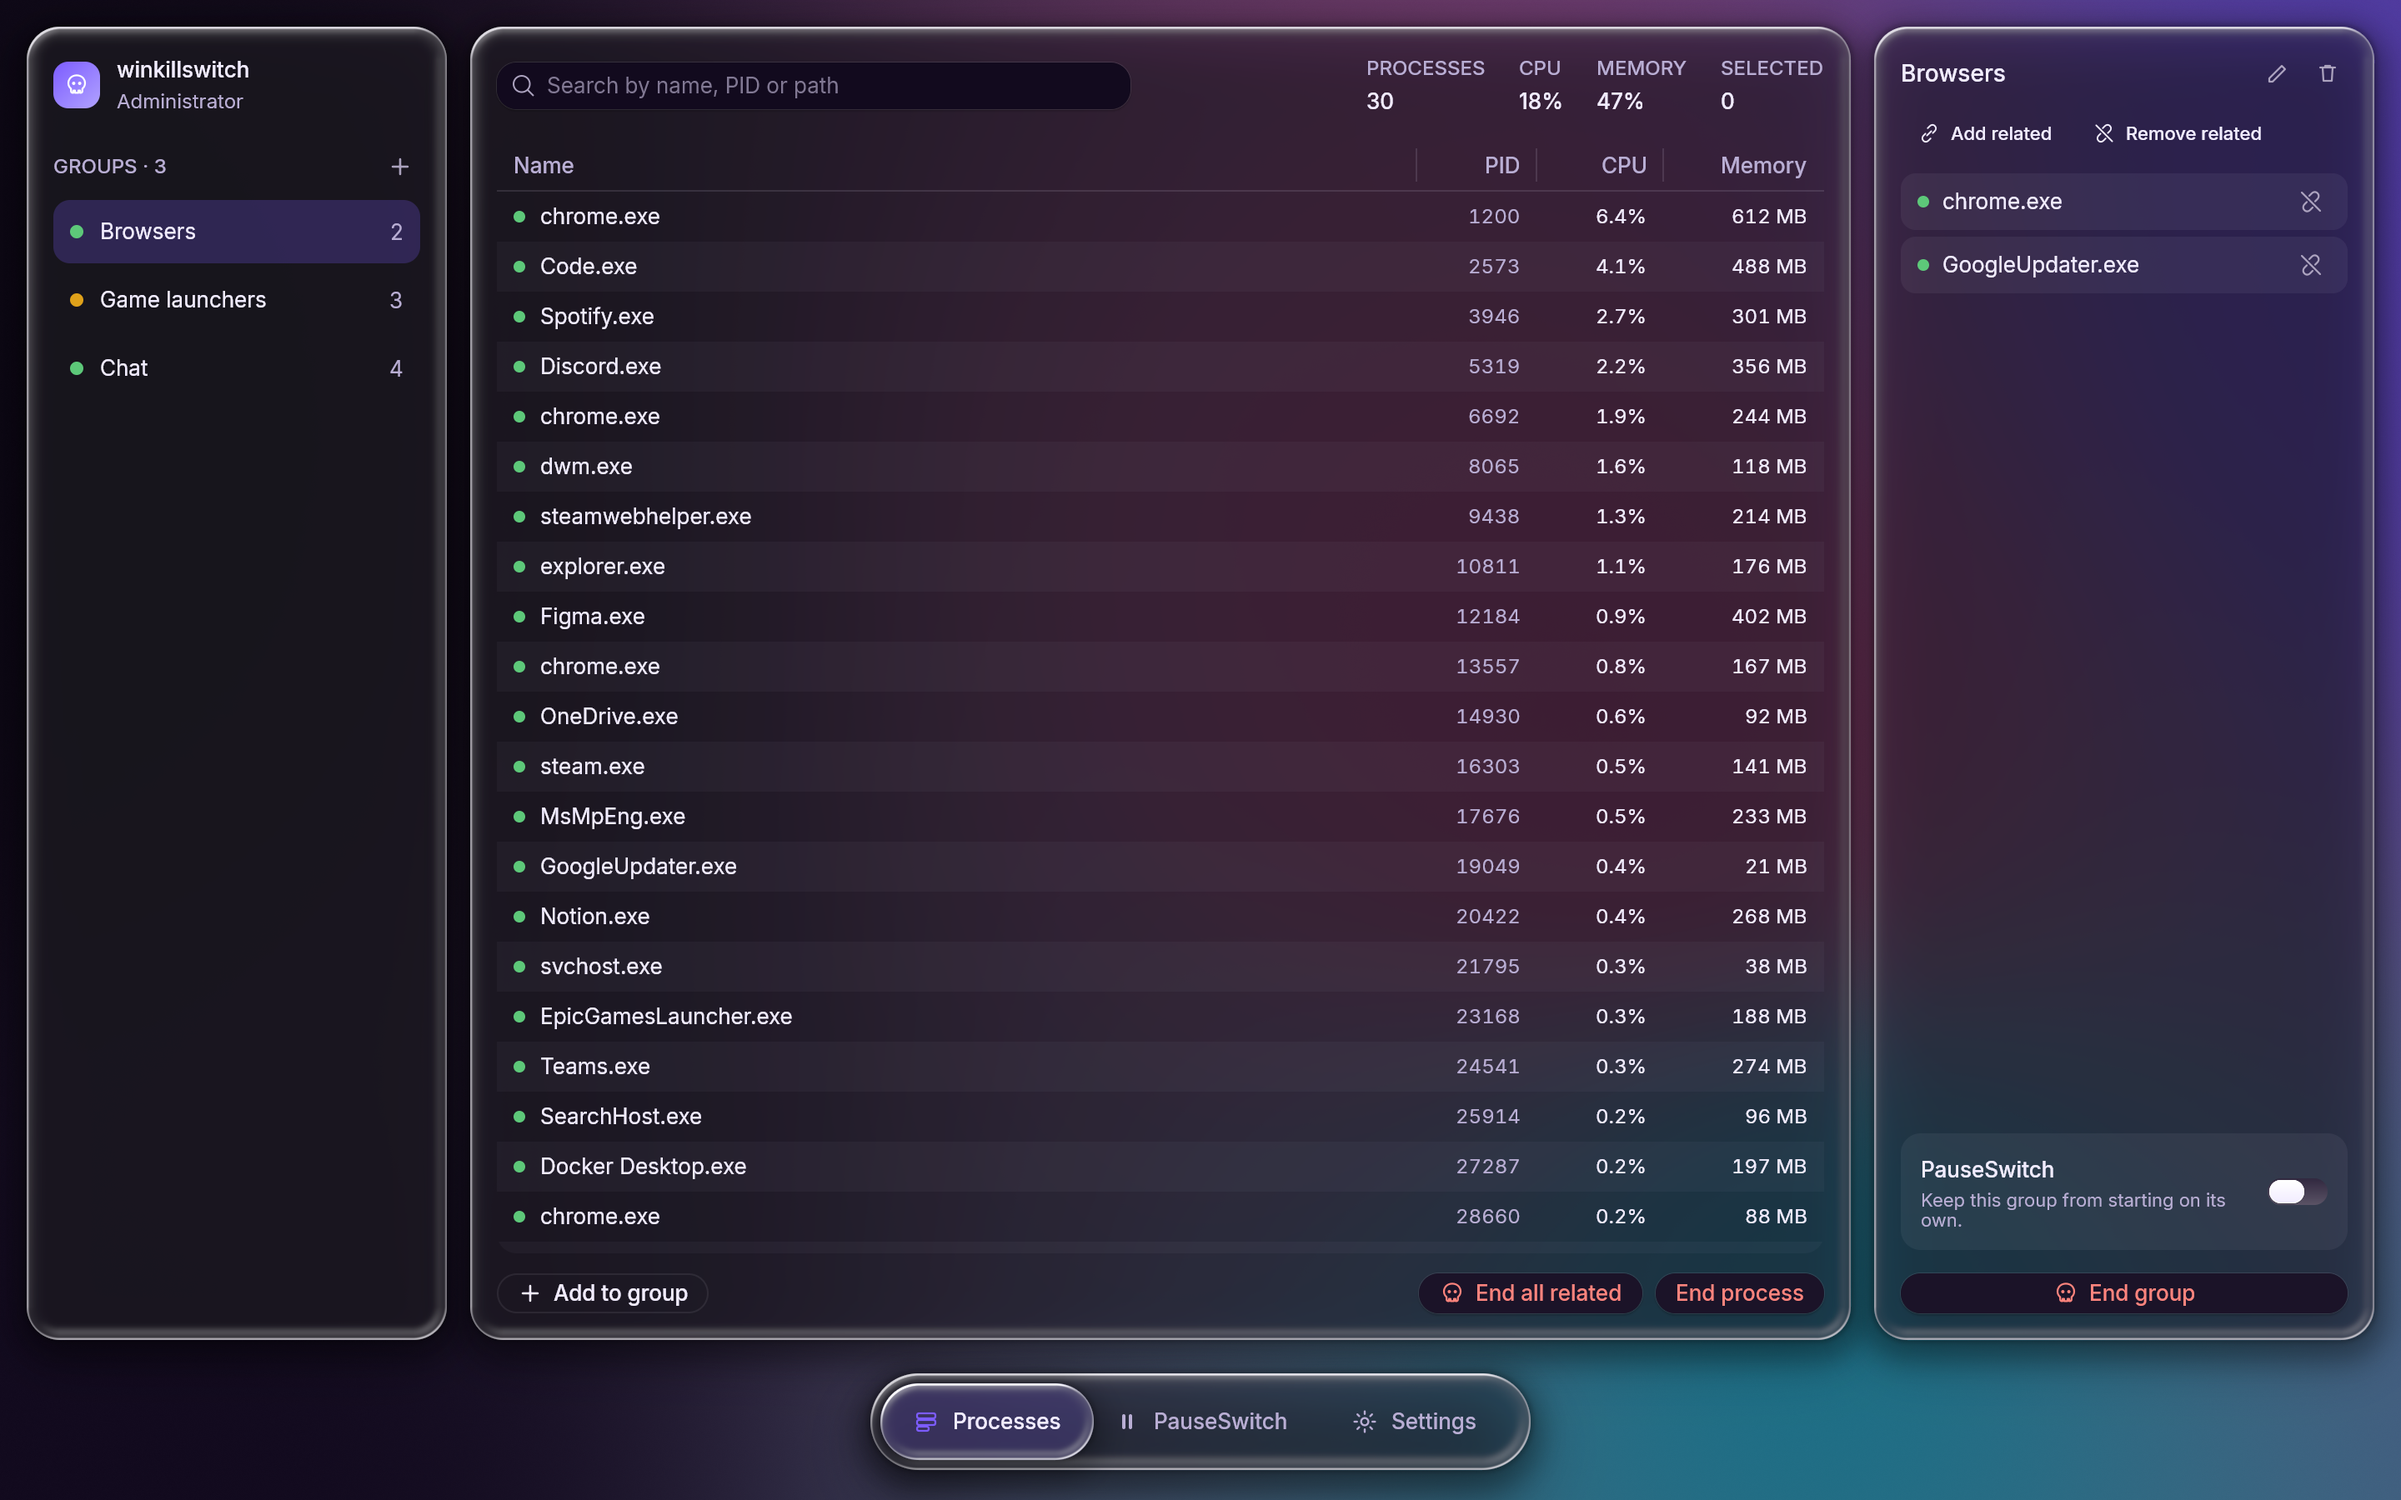
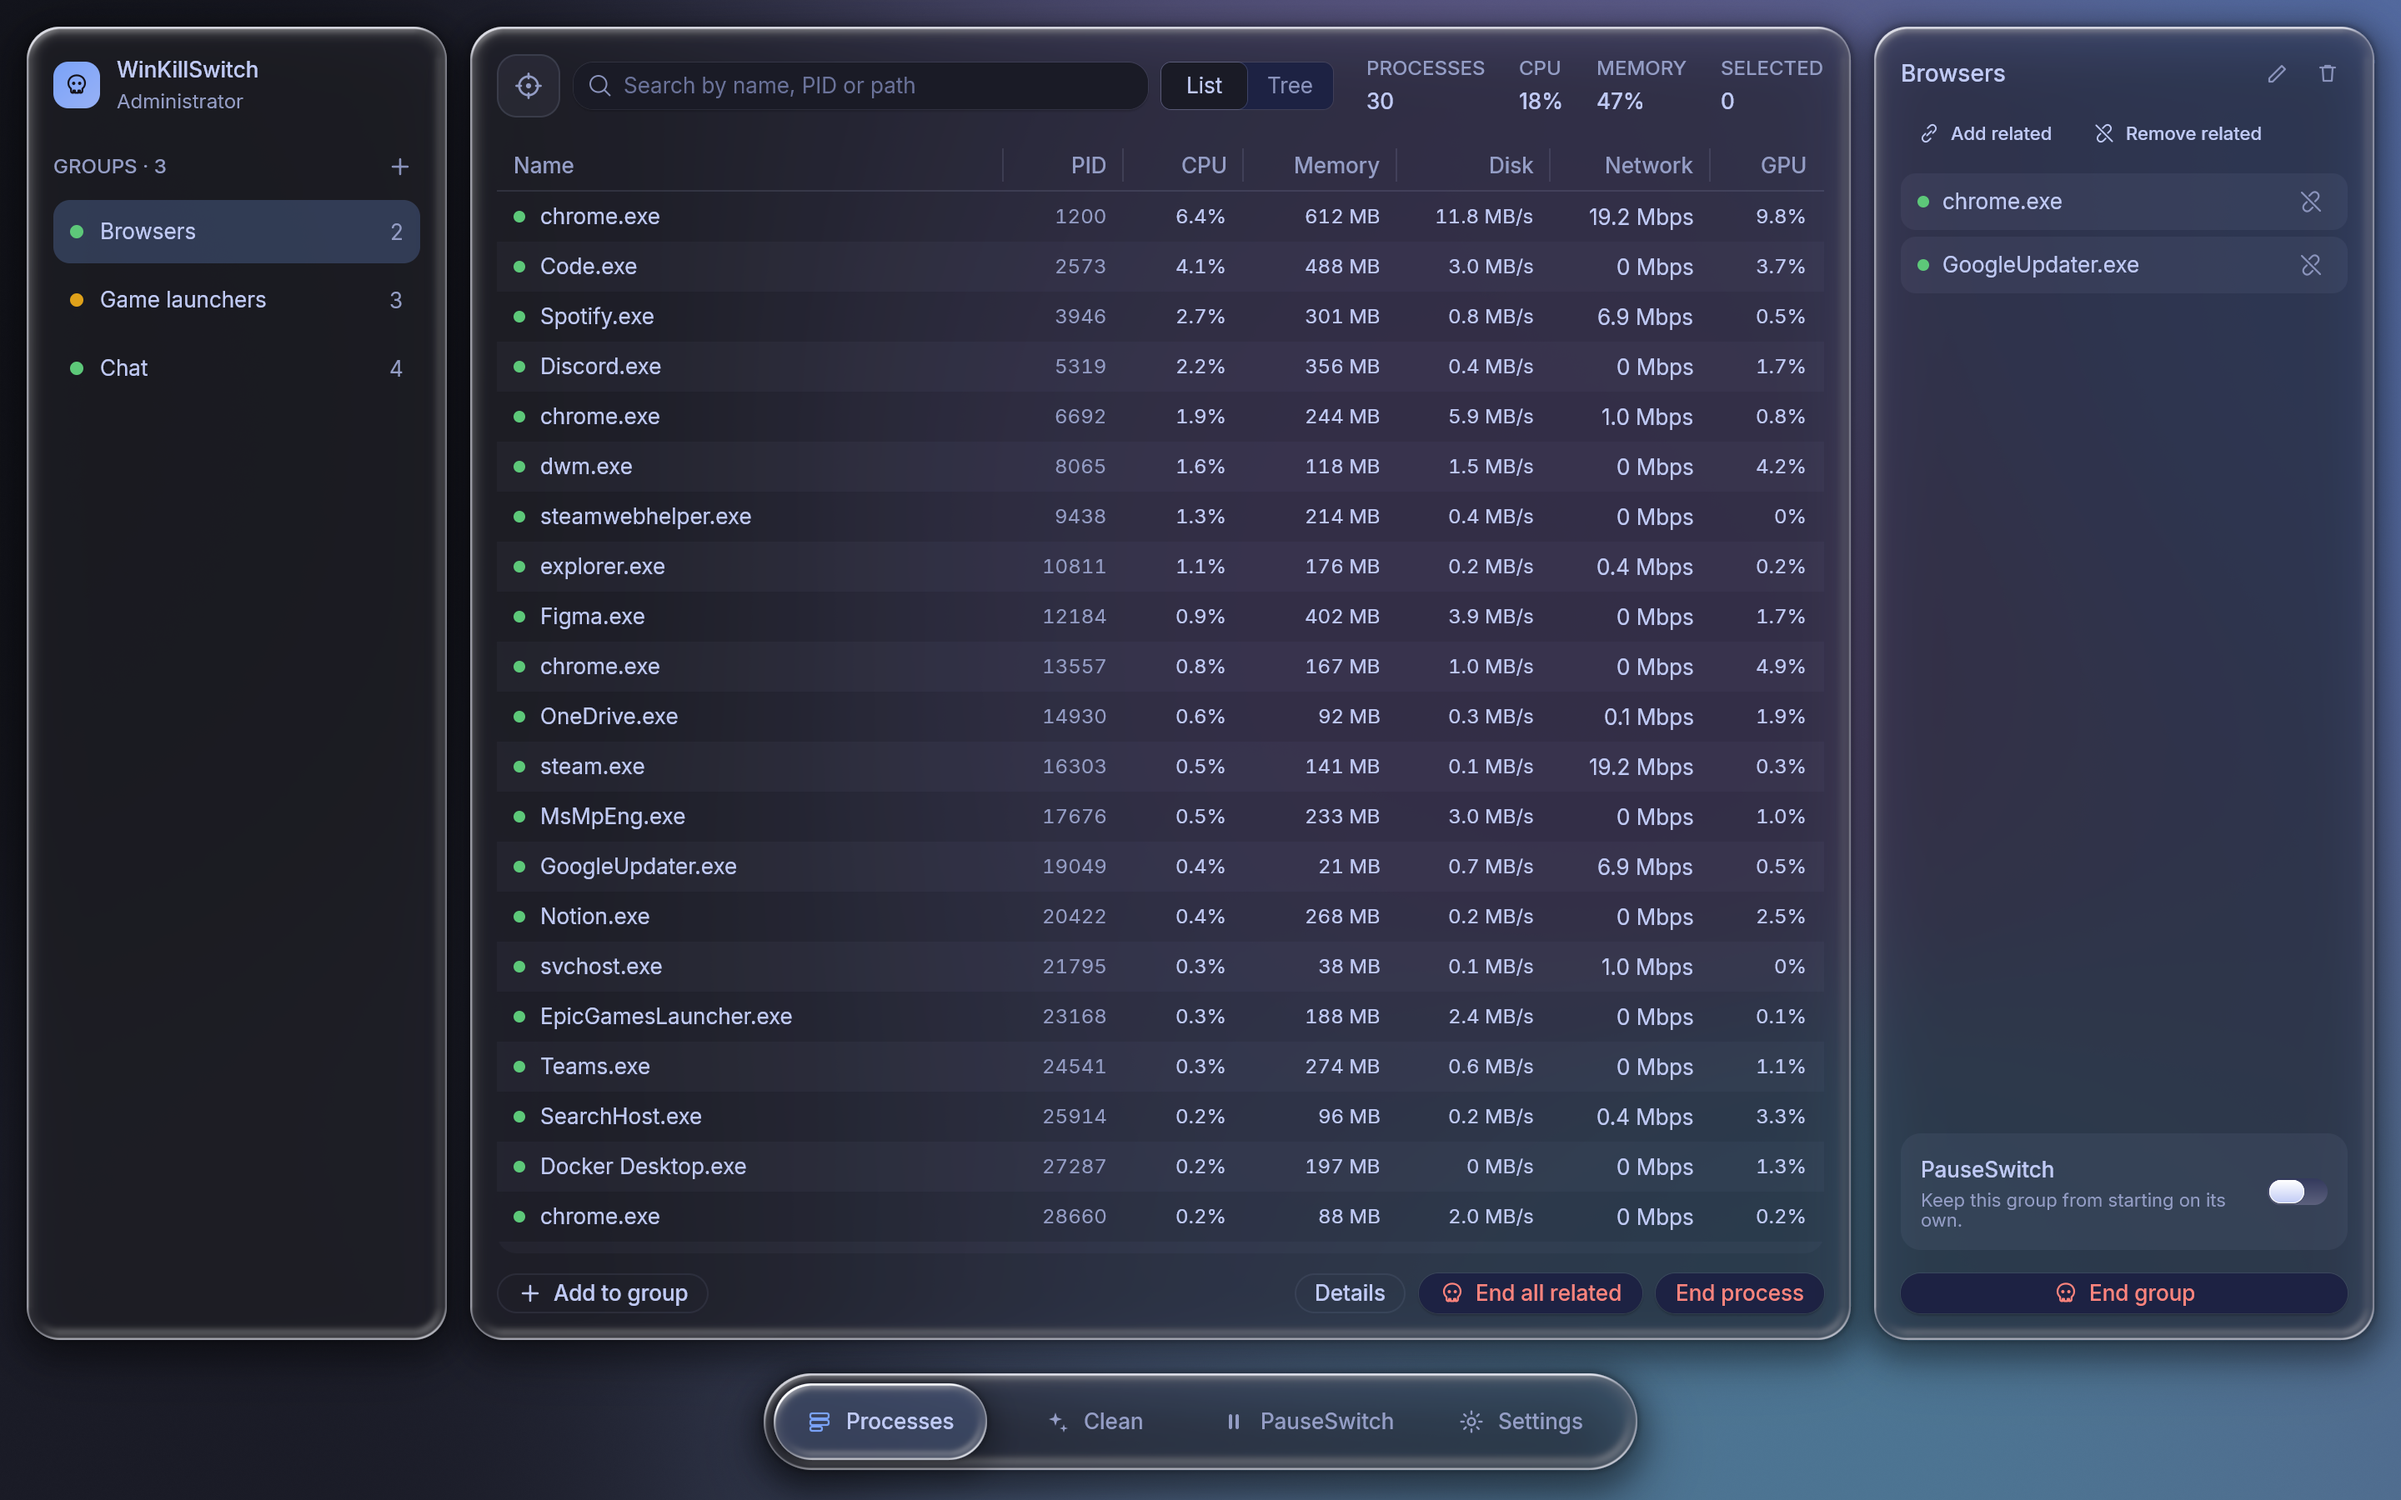
WinKillSwitch v0.4.0: the complete, tested set
- Narrow windows: the process table drops its least useful columns (GPU
  engine first, name never) until the rest fit the frame, and brings
  them back as the window widens; the toolbar wraps its stats onto their
  own line instead of overlapping the List/Tree switch.
- README: refreshed table screenshots with the Network column, status
  and limitations brought up to date (cleaners and limits are the only
  system changes, both started by you), roadmap intro for v0.4.0,
  project structure lists the new modules and packs/.
- Verified for this release: 49 unit tests and 7 live machine tests (RAM
  clean, disk scan, GPU, network over ETW, CPU and memory limits, startup
  survey) pass; dark, light and 820x560 sweeps of every tab; end to end
  runs for diagnosis, alerts, file locks, packs import/export.

diff --git a/preview.html b/preview.html
@@ -127,7 +127,7 @@ WinKillSwitch is a desktop process manager for Windows. It shows what is running
 The interface is drawn entirely on the GPU by [Rune](https://github.com/anomalyco/rune). Panels are real glass over a live gradient, every change animates on springs, and the whole look follows the palette you pick.
 
 > [!NOTE]
-> WinKillSwitch is in **alpha**. The interface, process monitoring, groups, theming and the memory and disk cleaners work today. Ending processes and the PauseSwitch system changes are designed and wired into the UI but not implemented yet. See [Known limitations](#known-limitations).
+> WinKillSwitch is in **alpha**. Process monitoring (with GPU and network), groups, theming, the memory and disk cleaners, the slow PC check, file lock finder, startup inventory, alerts, limits and rule packs work today. Ending processes and the PauseSwitch system changes are designed and wired into the UI but not implemented yet. See [Known limitations](#known-limitations).
 
 ## Features
 
@@ -314,7 +314,7 @@ The first build compiles Rune and its GPU stack from source and takes a few minu
 
 ## Known limitations
 
-- **Process actions are stubs.** Ending a process, ending everything related to an app, the respawn guard and PauseSwitch's autostart changes are defined behind interfaces in [`src/sys`](src/sys) and wired into the UI, but in this alpha they do nothing and say so. Nothing on your system is modified.
+- **Process actions are stubs.** Ending a process, ending everything related to an app, the respawn guard and PauseSwitch's autostart changes are defined behind interfaces in [`src/sys`](src/sys) and wired into the UI, but in this build they do nothing and say so. The only things that change your system are the ones you start yourself: cleaning memory or disk, and limits.
 - **Windows only.** Rune itself runs on macOS and Linux, but the system layer is written for Windows.
 - **Pre-release UI framework.** Rune has no tagged releases; this project pins an exact commit.
 - **Not signed.** No code signing and no installer yet.
@@ -322,7 +322,7 @@ The first build compiles Rune and its GPU stack from source and takes a few minu
 
 ## Roadmap
 
-Planned releases: **v0.2** adds the memory cleaner, **v0.3** the disk cleaner, **v0.3.x** ships the rest of this list one feature at a time, and **v0.4** is the complete, tested set.
+**v0.4.0** is the complete, tested set of everything ticked below: v0.2 added the memory cleaner, v0.3 the disk cleaner, and each v0.3.x one feature at a time. What is left:
 
 - [x] Responsive under load: sampling and cleaning run off the UI thread, and the UI runs at above normal priority
 - [x] Memory cleaner: a live memory gauge and one Clean button that shows exactly what it freed (v0.2)
@@ -355,9 +355,11 @@ src/
   model.rs       shared types and saved settings
   store.rs       JSON persistence with atomic writes
   demo.rs        the fixed demo machine used for screenshots
-  sys/           Windows access: sampling, elevation, version info, process actions
+  sys/           Windows access: sampling, GPU and network meters, cleaners, limits,
+                 file locks, startup inventory, alerts, rule packs, diagnosis
   ui/            the Rune view: glass, palettes, compositor, tabs and settings
-docs/            README assets and the title generator
+packs/           the built in rule packs, plain JSON
+docs/            README assets, the title generator and end to end scripts
 research/        feature research report
 ```
 

diff --git a/src/ui/columns.rs b/src/ui/columns.rs
@@ -43,6 +43,21 @@ pub const ALL: [Col; 13] = [
 
 pub const DEFAULT: [&str; 7] = ["name", "pid", "cpu", "mem", "disk", "net", "gpu"];
 
+/// Which columns go first when the table is too narrow for all of them.
+const DROP_ORDER: [&str; 11] = ["engine", "desc", "cmd", "publisher", "status", "type", "gpu", "net", "disk", "pid", "mem"];
+
+/// Keep the columns that fit `width`, dropping by `DROP_ORDER`. Name always stays.
+pub fn fit(mut cols: Vec<&'static Col>, width: f32) -> Vec<&'static Col> {
+    let need = |cs: &[&Col]| cs.iter().map(|c| c.width.unwrap_or(c.min)).sum::<f32>() + 24.0;
+    for id in DROP_ORDER {
+        if need(&cols) <= width {
+            break;
+        }
+        cols.retain(|c| c.id != id);
+    }
+    cols
+}
+
 pub fn align(c: &Col) -> Align {
     if c.end { Align::End } else { Align::Start }
 }
@@ -77,6 +92,20 @@ pub fn text(p: &ProcInfo, id: &str) -> String {
         "gpu" => if p.gpu < 0.05 { "0%".into() } else { fmt::pct(p.gpu) },
         "engine" => if p.gpu < 0.05 { String::new() } else { p.gpu_engine.clone() },
         _ => p.name.clone(),
+    }
+}
+
+#[cfg(test)]
+mod tests {
+    use super::*;
+
+    #[test]
+    fn narrow_tables_drop_the_least_useful_columns() {
+        let all: Vec<&Col> = ALL.iter().filter(|c| DEFAULT.contains(&c.id)).collect();
+        assert_eq!(fit(all.clone(), f32::MAX).len(), DEFAULT.len());
+        let ids = |v: Vec<&Col>| v.iter().map(|c| c.id).collect::<Vec<_>>();
+        assert_eq!(ids(fit(all.clone(), 560.0)), ["name", "pid", "cpu", "mem", "disk"]);
+        assert_eq!(ids(fit(all, 10.0)), ["name", "cpu"]);
     }
 }
 

diff --git a/src/ui/processes.rs b/src/ui/processes.rs
@@ -9,7 +9,7 @@ use crate::app::App;
 use crate::ui::theme::Look;
 use crate::ui::{columns, fmt, icons};
 
-pub fn view(s: &App, _cx: &mut Cx<App>, l: &Look, layer: &mut Vec<El>) -> El {
+pub fn view(s: &App, cx: &mut Cx<App>, l: &Look, layer: &mut Vec<El>) -> El {
     let k = &l.kit;
     let ok = k.c.success.icon;
     let (ink, muted) = (l.text, l.muted);
@@ -24,7 +24,10 @@ pub fn view(s: &App, _cx: &mut Cx<App>, l: &Look, layer: &mut Vec<El>) -> El {
         |s: &App, i| Cow::Owned(s.view_rows.get(i).copied().unwrap_or(0).to_string()),
     )
     .name("Processes");
-    for c in columns::ALL.iter().filter(|c| s.column_shown(c.id)) {
+    // Columns that do not fit the frame are left out, least useful first, until the window widens.
+    let frame_w = cx.layout_size("table-frame").map(|z| z[0]).unwrap_or(f32::MAX);
+    let shown: Vec<&columns::Col> = columns::fit(columns::ALL.iter().filter(|c| s.column_shown(c.id)).collect(), frame_w);
+    for c in shown {
         let mut tc = TableColumn::new(c.id, c.title).min(c.min).align(columns::align(c)).sortable();
         tc = match c.width {
             Some(w) => tc.width(w),
@@ -136,7 +139,7 @@ pub fn view(s: &App, _cx: &mut Cx<App>, l: &Look, layer: &mut Vec<El>) -> El {
         .child(
             row()
                 .grow(1.0)
-                .min_w(240.0)
+                .min_w(360.0)
                 .max_w(640.0)
                 .gap(8.0)
                 .center_y()

diff --git a/README.md b/README.md
@@ -36,7 +36,7 @@ WinKillSwitch is a desktop process manager for Windows. It shows what is running
 The interface is drawn entirely on the GPU by [Rune](https://github.com/anomalyco/rune). Panels are real glass over a live gradient, every change animates on springs, and the whole look follows the palette you pick.
 
 > [!NOTE]
-> WinKillSwitch is in **alpha**. The interface, process monitoring, groups, theming and the memory and disk cleaners work today. Ending processes and the PauseSwitch system changes are designed and wired into the UI but not implemented yet. See [Known limitations](#known-limitations).
+> WinKillSwitch is in **alpha**. Process monitoring (with GPU and network), groups, theming, the memory and disk cleaners, the slow PC check, file lock finder, startup inventory, alerts, limits and rule packs work today. Ending processes and the PauseSwitch system changes are designed and wired into the UI but not implemented yet. See [Known limitations](#known-limitations).
 
 ## Features
 
@@ -223,7 +223,7 @@ The first build compiles Rune and its GPU stack from source and takes a few minu
 
 ## Known limitations
 
-- **Process actions are stubs.** Ending a process, ending everything related to an app, the respawn guard and PauseSwitch's autostart changes are defined behind interfaces in [`src/sys`](src/sys) and wired into the UI, but in this alpha they do nothing and say so. Nothing on your system is modified.
+- **Process actions are stubs.** Ending a process, ending everything related to an app, the respawn guard and PauseSwitch's autostart changes are defined behind interfaces in [`src/sys`](src/sys) and wired into the UI, but in this build they do nothing and say so. The only things that change your system are the ones you start yourself: cleaning memory or disk, and limits.
 - **Windows only.** Rune itself runs on macOS and Linux, but the system layer is written for Windows.
 - **Pre-release UI framework.** Rune has no tagged releases; this project pins an exact commit.
 - **Not signed.** No code signing and no installer yet.
@@ -231,7 +231,7 @@ The first build compiles Rune and its GPU stack from source and takes a few minu
 
 ## Roadmap
 
-Planned releases: **v0.2** adds the memory cleaner, **v0.3** the disk cleaner, **v0.3.x** ships the rest of this list one feature at a time, and **v0.4** is the complete, tested set.
+**v0.4.0** is the complete, tested set of everything ticked below: v0.2 added the memory cleaner, v0.3 the disk cleaner, and each v0.3.x one feature at a time. What is left:
 
 - [x] Responsive under load: sampling and cleaning run off the UI thread, and the UI runs at above normal priority
 - [x] Memory cleaner: a live memory gauge and one Clean button that shows exactly what it freed (v0.2)
@@ -264,9 +264,11 @@ src/
   model.rs       shared types and saved settings
   store.rs       JSON persistence with atomic writes
   demo.rs        the fixed demo machine used for screenshots
-  sys/           Windows access: sampling, elevation, version info, process actions
+  sys/           Windows access: sampling, GPU and network meters, cleaners, limits,
+                 file locks, startup inventory, alerts, rule packs, diagnosis
   ui/            the Rune view: glass, palettes, compositor, tabs and settings
-docs/            README assets and the title generator
+packs/           the built in rule packs, plain JSON
+docs/            README assets, the title generator and end to end scripts
 research/        feature research report
 ```
 
